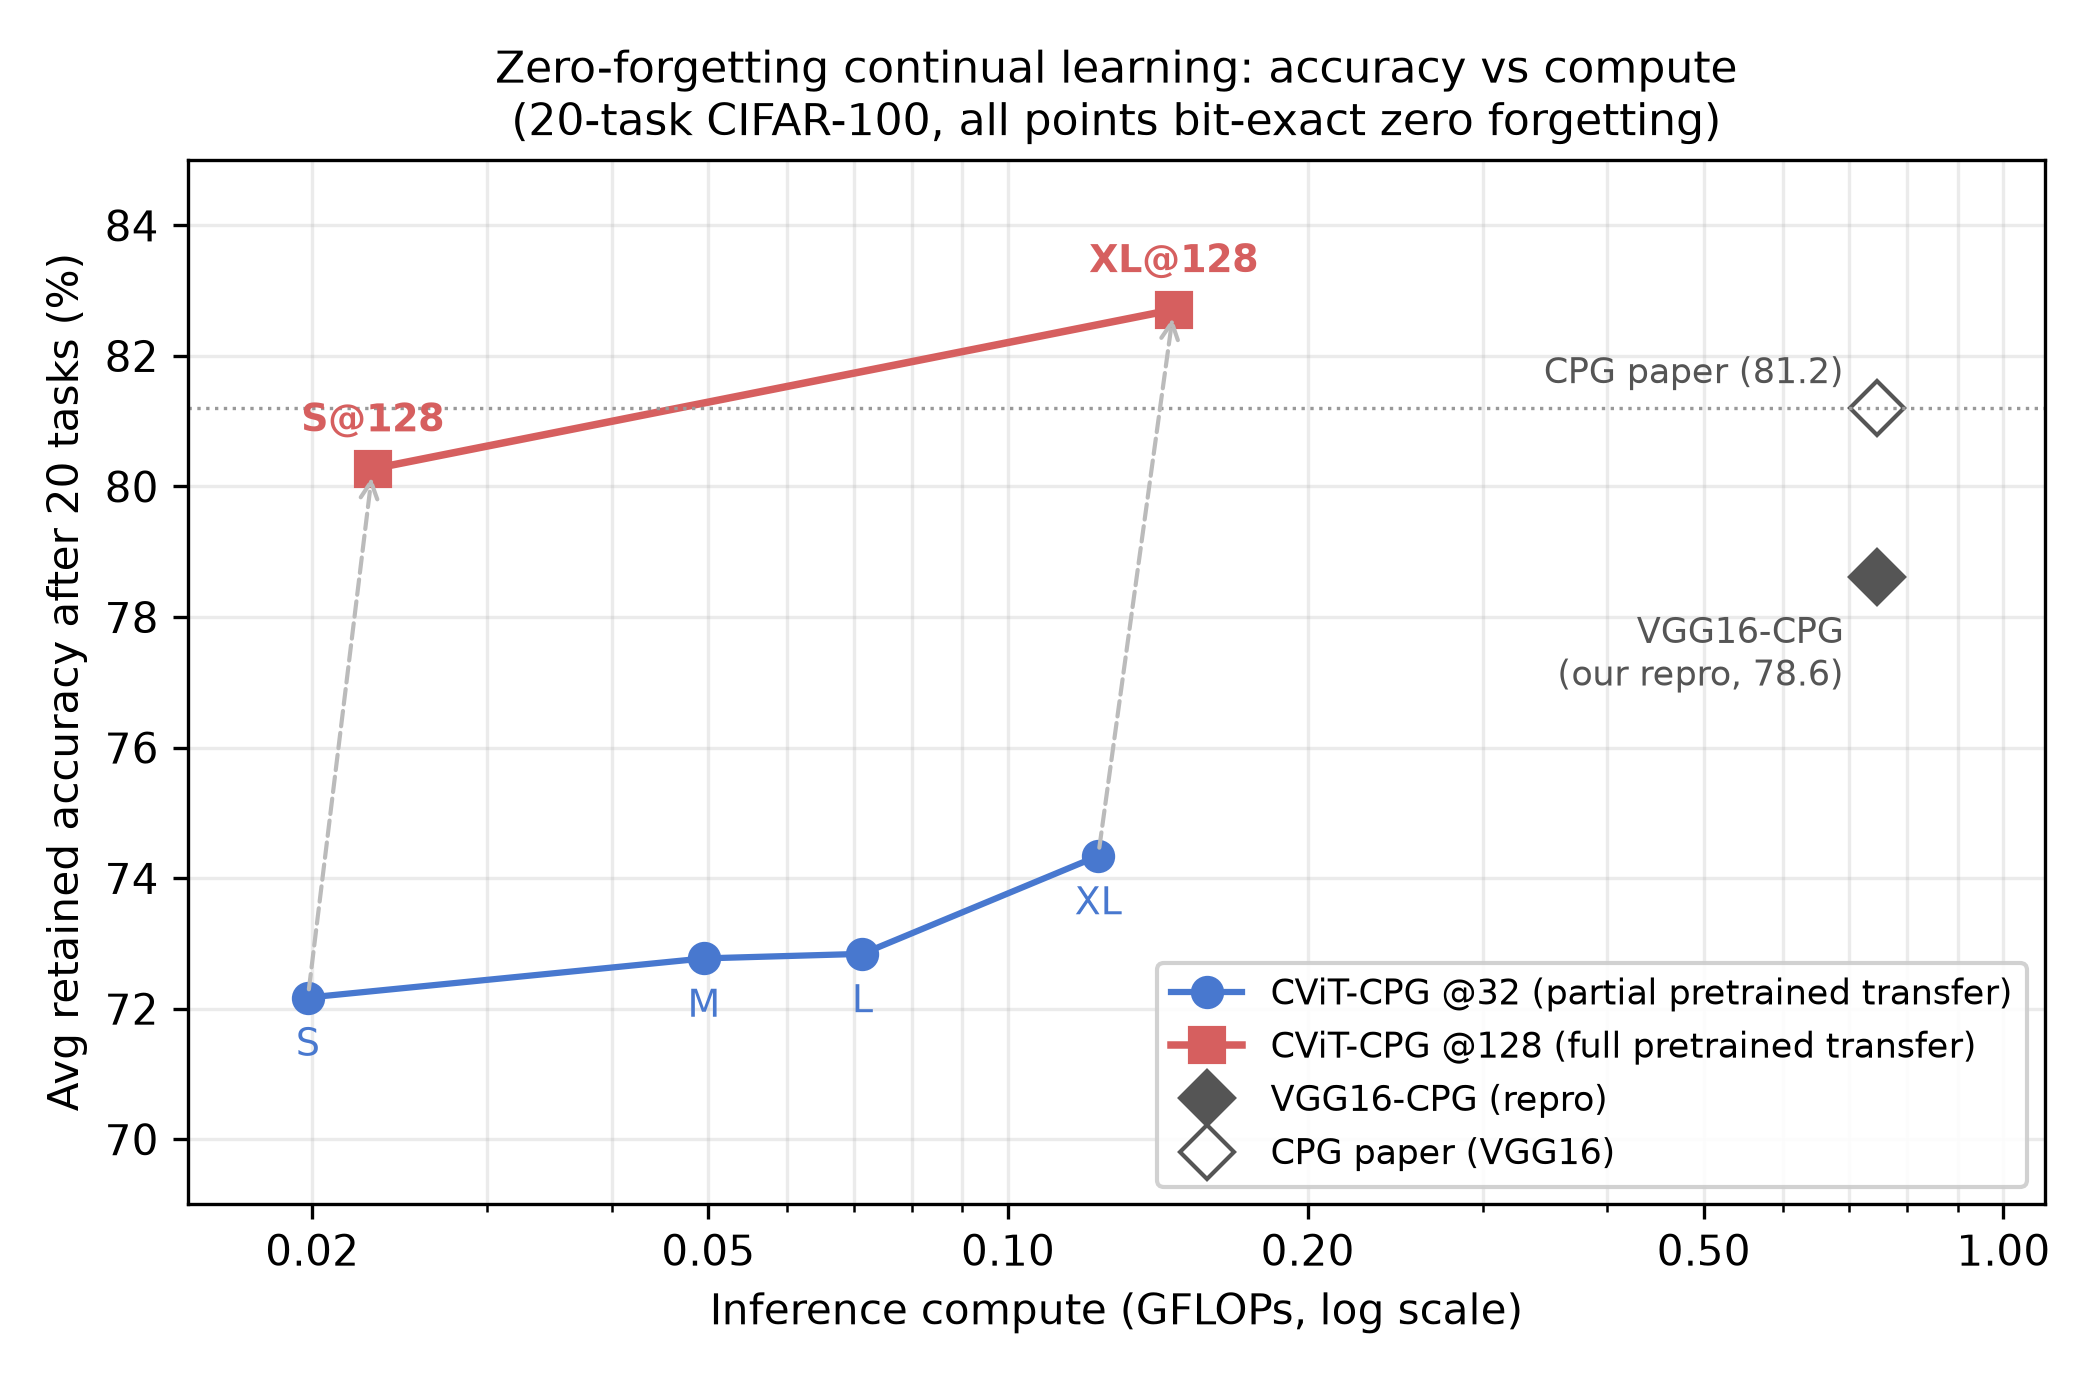
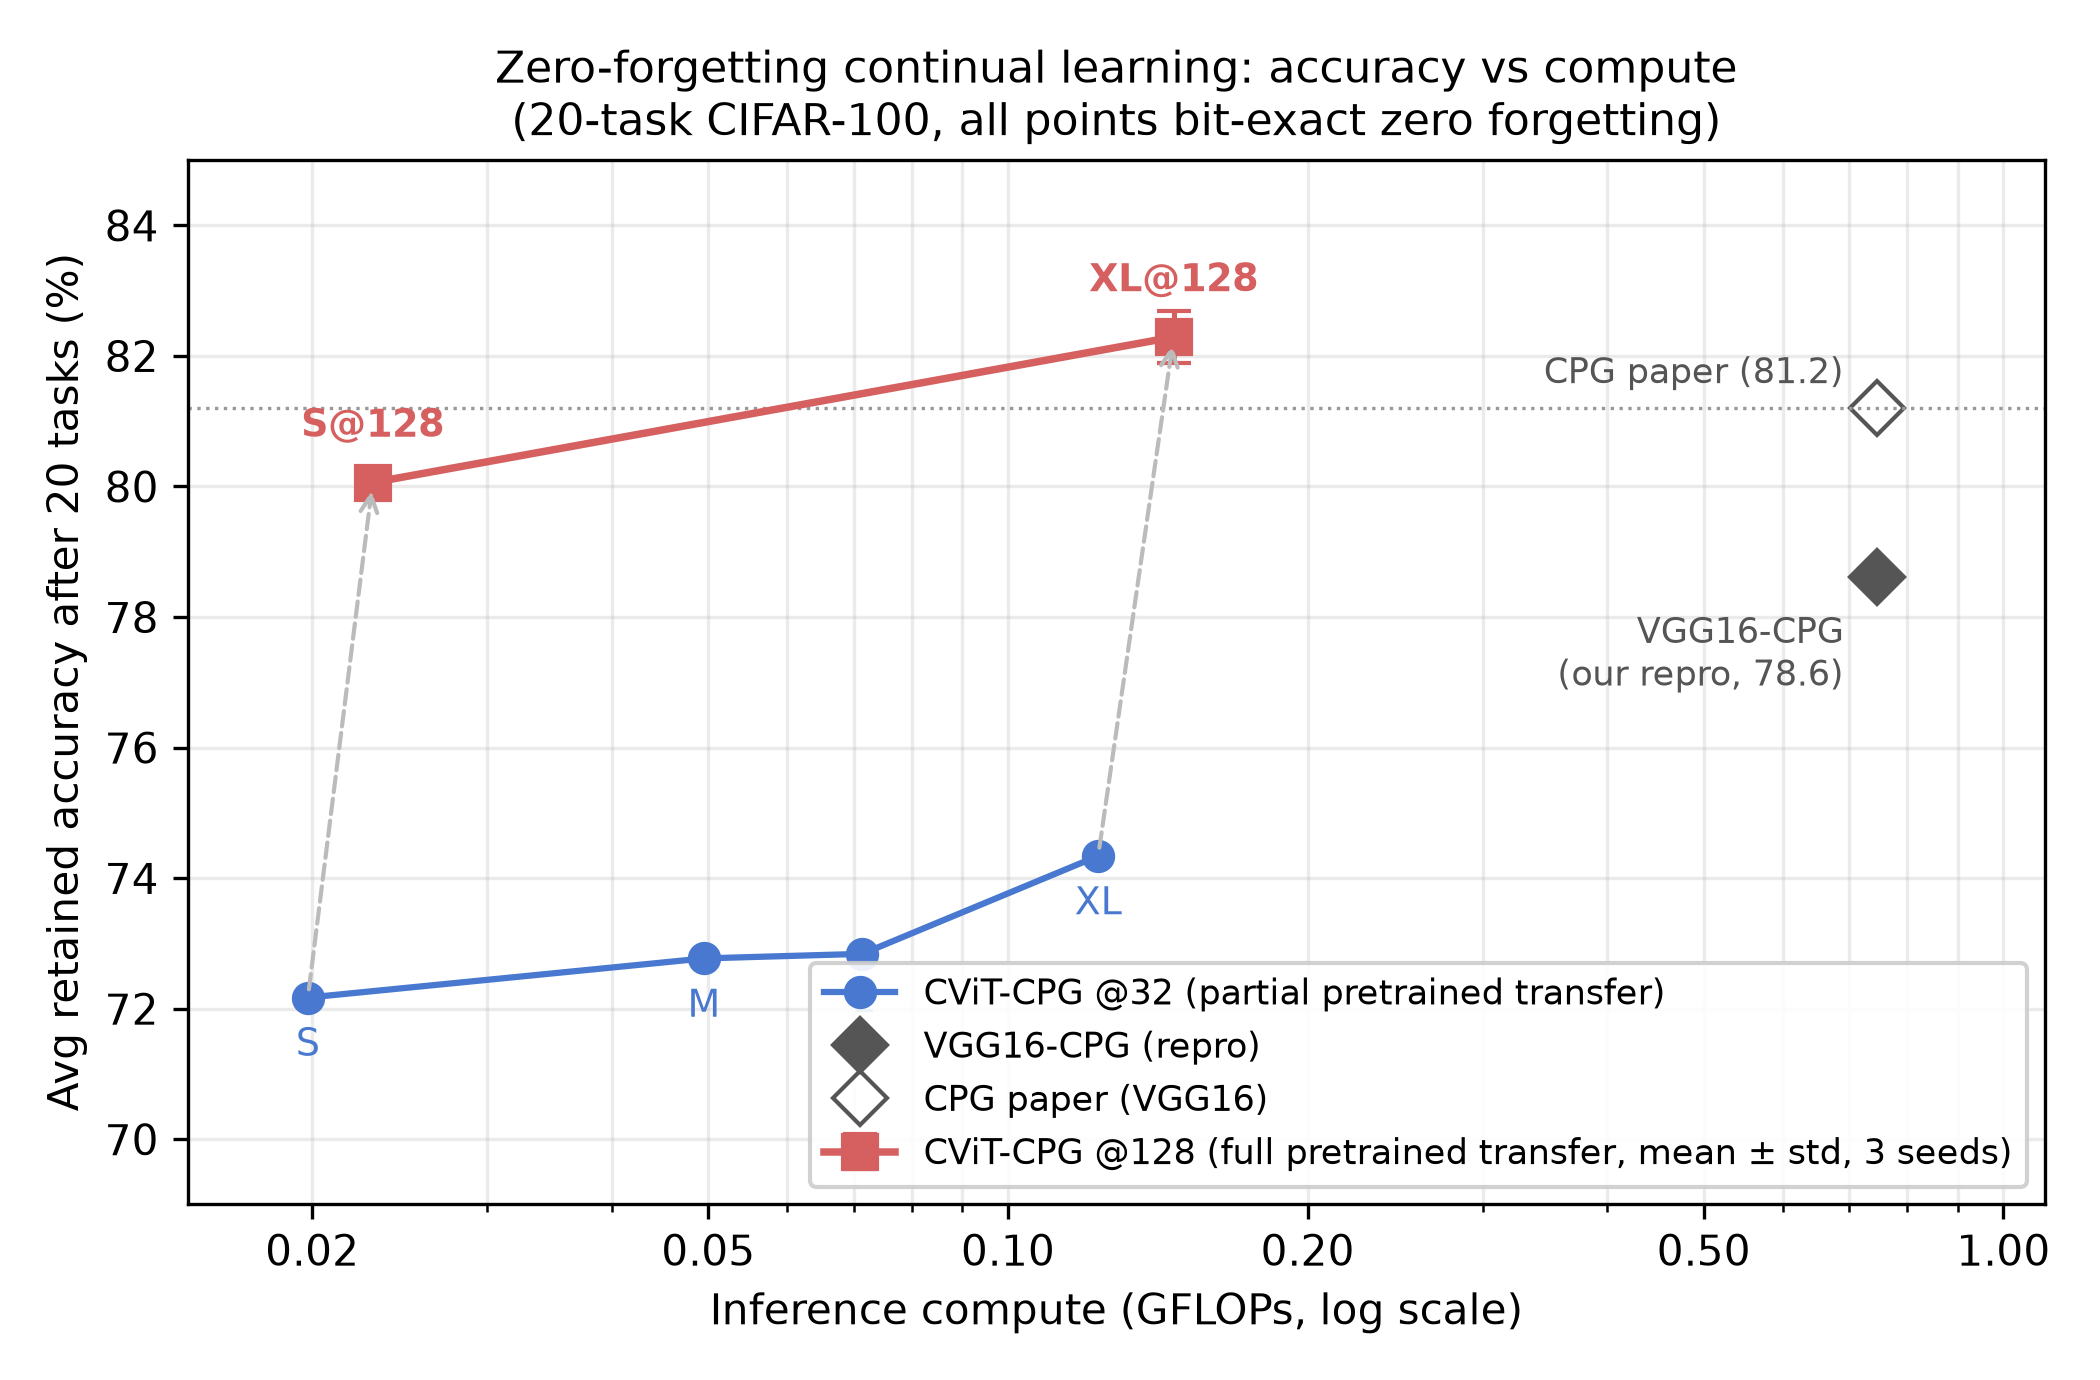
Multi-seed validation of the @user headline points (3 seeds each)
S@128: 80.27/79.94/79.98 -> 80.06 +/- 0.18 (every seed beats VGG repro 78.61)
XL@128: 82.71/81.91/82.25 -> 82.29 +/- 0.40 (every seed beats CPG paper 81.2)
Frozen-weight drift 0.00e+00 in all six runs. Error bars folded into the
technical report and the Pareto figure.

Changed region(s): [[0.3714, 0.6855, 0.9595, 0.8725], [0.1238, 0.1558, 0.619, 0.3739]]

diff --git a/cvit_cifar/plot_pareto.py b/cvit_cifar/plot_pareto.py
@@ -11,7 +11,9 @@ import matplotlib.pyplot as plt
 
 # (name, GFLOPs, retained acc %)
 CVIT_32 = [('S', 0.0198, 72.17), ('M', 0.0495, 72.77), ('L', 0.0714, 72.84), ('XL', 0.1232, 74.34)]
-CVIT_128 = [('S@128', 0.0230, 80.27), ('XL@128', 0.1467, 82.71)]
+# @128 points: mean over 3 seeds, with std as error bars
+# S@128: 80.27 / 79.94 / 79.98   XL@128: 82.71 / 81.91 / 82.25
+CVIT_128 = [('S@128', 0.0230, 80.06, 0.18), ('XL@128', 0.1467, 82.29, 0.40)]
 VGG_REPRO = ('VGG16-CPG (repro)', 0.7467, 78.61)
 VGG_PAPER = ('CPG paper (VGG16)', 0.7467, 81.2)
 
@@ -23,9 +25,12 @@ for n, x, y in CVIT_32:
     ax.annotate(n, (x, y), textcoords='offset points', xytext=(0, -14), ha='center', fontsize=9, color='#4878CF')
 
 xs, ys = [p[1] for p in CVIT_128], [p[2] for p in CVIT_128]
-ax.plot(xs, ys, 's-', color='#D65F5F', lw=1.8, ms=8, label='CViT-CPG @128 (full pretrained transfer)')
-for n, x, y in CVIT_128:
-    ax.annotate(n, (x, y), textcoords='offset points', xytext=(0, 9), ha='center', fontsize=9,
+errs = [p[3] for p in CVIT_128]
+ax.errorbar(xs, ys, yerr=errs, fmt='s-', color='#D65F5F', lw=1.8, ms=8,
+            capsize=4, ecolor='#D65F5F', elinewidth=1.2,
+            label='CViT-CPG @128 (full pretrained transfer, mean ± std, 3 seeds)')
+for n, x, y, e in CVIT_128:
+    ax.annotate(n, (x, y), textcoords='offset points', xytext=(0, 11), ha='center', fontsize=9,
                 color='#D65F5F', fontweight='bold')
 
 ax.plot(VGG_REPRO[1], VGG_REPRO[2], 'D', color='#555555', ms=9, label=VGG_REPRO[0])
@@ -37,7 +42,7 @@ ax.annotate('CPG paper (81.2)', (VGG_PAPER[1], VGG_PAPER[2]),
 
 ax.axhline(VGG_PAPER[2], color='#999999', lw=0.8, ls=':')
 # arrows showing the resolution unlock (same geometry, full transfer)
-for (na, xa, ya), (nb, xb, yb) in ((CVIT_32[0], CVIT_128[0]), (CVIT_32[3], CVIT_128[1])):
+for (na, xa, ya), (nb, xb, yb, _) in ((CVIT_32[0], CVIT_128[0]), (CVIT_32[3], CVIT_128[1])):
     ax.annotate('', xy=(xb, yb), xytext=(xa, ya),
                 arrowprops=dict(arrowstyle='->', color='#BBBBBB', lw=1.0, ls='--'))
 

diff --git a/TECHNICAL_REPORT.md b/TECHNICAL_REPORT.md
@@ -344,18 +344,19 @@ Identical recipe to all family runs:
 
 | Backbone | GFLOPs | Retained acc | BWT | Frozen-wt drift | cAPF | vs VGG |
 |----------|:------:|:---:|:---:|:---:|:---:|:---:|
-| CViT-S @128 | 0.0230 | 80.27 % | -0.04 % | 0.00e+00 | 3495 | 33.2x |
-| CViT-XL @128 | 0.1467 | 82.71 % | +0.10 % | 0.00e+00 | 564 | 5.4x |
+| CViT-S @128 | 0.0230 | 80.06 ± 0.18 % (3 seeds) | -0.04 / +0.13 / -0.11 % | 0.00e+00 (all) | 3482–3495 | 33.1x |
+| CViT-XL @128 | 0.1467 | 82.29 ± 0.40 % (3 seeds) | +0.10 / -0.09 / +0.02 % | 0.00e+00 (all) | 559–564 | 5.3x |
 | VGG16-CPG (repro) | 0.7467 | 78.61 % | ~0 | — | 105 | 1x |
 | CPG paper (VGG16) | 0.7467 | 81.2 % | ~0 | — | 109 | — |
 
 Findings:
 
-1. **CViT-S @128 exceeds our VGG16-CPG reproduction** (80.27 vs 78.61 %) at 32x fewer FLOPs; **CViT-XL @128 exceeds the original paper's published average** (82.71 vs 81.2 %) at 5x fewer FLOPs. Accuracy parity is achieved with the efficiency claim intact.
-2. **Attribution is clean**: partial transfer at 32px was worth +1.4 pts; full transfer at 128px is worth +8.1 (S) and +8.4 (XL) at the same internal geometry — the jump appears exactly when the stem transfers, identifying transfer completeness (not resolution) as the mechanism.
-3. **Zero forgetting is resolution-independent**: frozen-weight drift 0.00e+00 and |BWT| <= 0.10 % at 128px for both variants.
-4. Per-task, every superclass improves; the historically hardest tasks improve most in relative terms (aquatic_mammals 57.2 -> 69.6 for XL, people 44.0 -> 53.6, above VGG's 50.6).
-5. **Hardware cost of the resolution move is negligible** (measured, RTX 3060, batch 128): the stride-16 stem absorbs the larger input, so S@128 matches the 32px latency (0.211 ms/img) and still undercuts VGG's energy (19.7 vs 26.0 mJ/img) while exceeding its accuracy; XL@128 is 0.254 ms/img / 32.2 mJ/img (~1.2x VGG energy) for +4.1 accuracy points over the reproduction.
+1. **CViT-S @128 exceeds our VGG16-CPG reproduction** (80.06 ± 0.18 vs 78.61 %, every seed above) at 32x fewer FLOPs; **CViT-XL @128 exceeds the original paper's published average** (82.29 ± 0.40 vs 81.2 %, every seed above) at 5x fewer FLOPs. Accuracy parity is achieved with the efficiency claim intact.
+2. **Both headline points are seed-stable.** Three independent seeds each: S@128 = 80.27 / 79.94 / 79.98 % (mean 80.06, std 0.18); XL@128 = 82.71 / 81.91 / 82.25 % (mean 82.29, std 0.40). The margin over the respective reference exceeds 3 standard deviations in both cases, and frozen-weight drift is 0.00e+00 in all six runs.
+3. **Attribution is clean**: partial transfer at 32px was worth +1.4 pts; full transfer at 128px is worth +7.9 (S) and +8.0 (XL) in seed-mean terms at the same internal geometry — the jump appears exactly when the stem transfers, identifying transfer completeness (not resolution) as the mechanism.
+4. **Zero forgetting is resolution-independent**: frozen-weight drift 0.00e+00 and |BWT| <= 0.13 % at 128px for both variants across all seeds.
+5. Per-task, every superclass improves; the historically hardest tasks improve most in relative terms (aquatic_mammals 57.2 -> 69.6 for XL, people 44.0 -> 53.6, above VGG's 50.6).
+6. **Hardware cost of the resolution move is negligible** (measured, RTX 3060, batch 128): the stride-16 stem absorbs the larger input, so S@128 matches the 32px latency (0.211 ms/img) and still undercuts VGG's energy (19.7 vs 26.0 mJ/img) while exceeding its accuracy; XL@128 is 0.254 ms/img / 32.2 mJ/img (~1.2x VGG energy) for +4.1 accuracy points over the reproduction.
 
 ### 9.7 Consolidated result narrative
 
@@ -368,16 +369,16 @@ Findings:
 | Pretrained S | ImageNet init | 72.17 % | 3636 | Only lever that helped (+1.4) |
 | Family | S / M / L / XL pretrained | 72.2 / 72.8 / 72.8 / 74.3 % | 3636 / 1469 / 1020 / 604 | Depth beats width; Pareto frontier |
 | Growing | width 1.0 -> 1.5 transfer | logit drift 0.978 | — | Negative result: chunk routing breaks naive growth |
-| Resolution S | S @128, full ckpt transfer | 80.27 % | 3495 | Beats VGG repro at 32x fewer FLOPs |
-| Resolution XL | XL @128, full ckpt transfer | 82.71 % | 564 | Beats the original CPG paper at 5x fewer FLOPs |
+| Resolution S | S @128, full ckpt transfer | 80.06 ± 0.18 % (3 seeds) | ~3490 | Beats VGG repro at 32x fewer FLOPs, every seed |
+| Resolution XL | XL @128, full ckpt transfer | 82.29 ± 0.40 % (3 seeds) | ~561 | Beats the original CPG paper at 5x fewer FLOPs, every seed |
 
-**One-line claim:** Zero-forgetting continual learning (bit-exact, checksum-verified) on the CascadedViT family matches and exceeds the original CPG paper's accuracy (82.7 % vs 81.2 % with CViT-XL at 128px input) at 5x fewer inference FLOPs, exceeds the VGG16-CPG reproduction at 32x fewer FLOPs (CViT-S @128, 80.3 %), and preserves the bit-exact zero-forgetting guarantee at every model size and resolution.
+**One-line claim:** Zero-forgetting continual learning (bit-exact, checksum-verified) on the CascadedViT family matches and exceeds the original CPG paper's accuracy (82.3 ± 0.4 % over 3 seeds vs 81.2 % with CViT-XL at 128px input, every seed above) at 5x fewer inference FLOPs, exceeds the VGG16-CPG reproduction at 32x fewer FLOPs (CViT-S @128, 80.1 ± 0.2 %), and preserves the bit-exact zero-forgetting guarantee at every model size, resolution, and seed.
 
 ---
 
 ## 10. Threats to validity and limitations
 
-1. **Single seed per configuration.** All 20-task numbers are one seed; the width-sweep 1.5-vs-2.0 inversion (72.27 vs 72.02) and the M-vs-L tie are within plausible seed noise. Multi-seed error bars on the S and XL endpoints are the natural next experiment.
+1. **Seed coverage is uneven.** The two headline points now carry three seeds each (S@128: 80.06 ± 0.18 %; XL@128: 82.29 ± 0.40 %; every seed above its reference and drift 0.00e+00 in all six runs), but the 32px family sweep and the width sweep remain single-seed; the width-sweep 1.5-vs-2.0 inversion (72.27 vs 72.02) and the M-vs-L tie are within plausible seed noise.
 2. **VGG reference gap.** Our VGG16-CPG reference (78.61 %) is 2.6 pts below the paper's 81.2 %, mainly from skipping per-task hyperparameter search; using the paper's number would scale the cAPF ratios down by ~3 % without changing any conclusion.
 3. **Task-aware evaluation.** Like the original CPG, the setting is task-incremental (task id known at test time). Class-incremental inference would need a task-selection mechanism on top.
 4. **Pretraining asymmetry.** The family results use ImageNet-pretrained CViT backbones while the VGG reference is trained from scratch (per the original protocol). The from-scratch CViT numbers (70.5–70.8 %) are reported alongside so both comparisons are available.